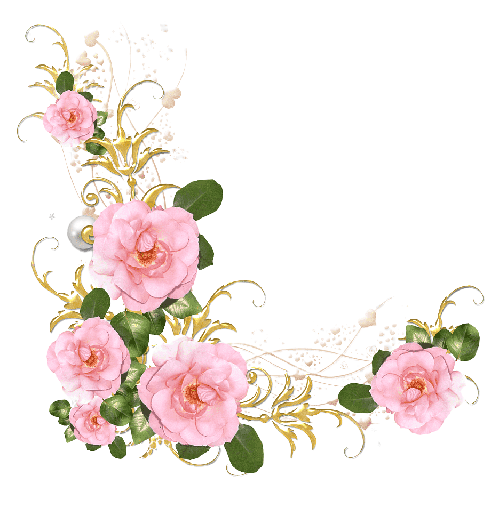
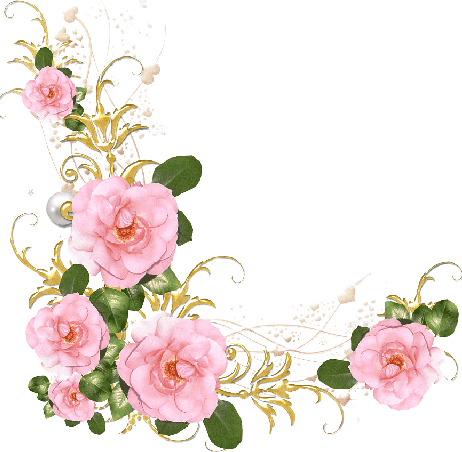
atualizar css

Changed region(s): [[0.0, 0.0, 1.0, 1.0], [0.2424, 0.0619, 0.2727, 0.0929]]

diff --git a/src/App.css b/src/App.css
@@ -193,6 +193,7 @@ header {
   }
   .links{
     padding: 30px;
+    display: block;
   }
   .fundo-convite {
     background-color: #b6a896 !important ;
@@ -272,7 +273,7 @@ header {
     font-size: 32px;
   }
   .cantoE{
-    background-image: url('./images//canto.png');
+    background-image: url('./images/canto.png');
     background-position: 0;
     display: block;
     width: 150px;
@@ -281,15 +282,13 @@ header {
     background-repeat: no-repeat;
     transform: rotate(90deg);
     position: absolute;
-    top: 10%;
-    left: -2%;
+    top: 11%;
   }
   .cantoIE{
-    background-image: url('./images//canto.png');
+    background-image: url('./images/canto.png');
     background-position: 0;
     position: absolute;
-    top: 84%;
-    left: -2%;
+    top: 82%;
     display: block;
     width: 150px;
     height: 150px;
@@ -298,7 +297,7 @@ header {
   
   }
   .cantoID{
-    background-image: url('./images//canto.png');
+    background-image: url('./images/canto.png');
     background-position: 0;
     display: block;
     width: 150px;
@@ -307,21 +306,20 @@ header {
     background-repeat: no-repeat;
     transform: rotate(180deg);
     position: absolute;
-    top: 10%;
-    left: 68%;
+    top: 11%;
+    left: 65%;
   }
   .cantoD{
-    background-image: url('./images//canto.png');
+    background-image: url('./images/canto.png');
     background-position: 0;
     position: absolute;
-    top: 82%;
-    left: 68%;
+    top: 80%;
+    left: 65%;
     display: block;
     width: 150px;
     height: 180px;
     background-size: contain;
     background-repeat: no-repeat;
     transform: scaleX(-1);
-    z-index:4;
   }
 }
